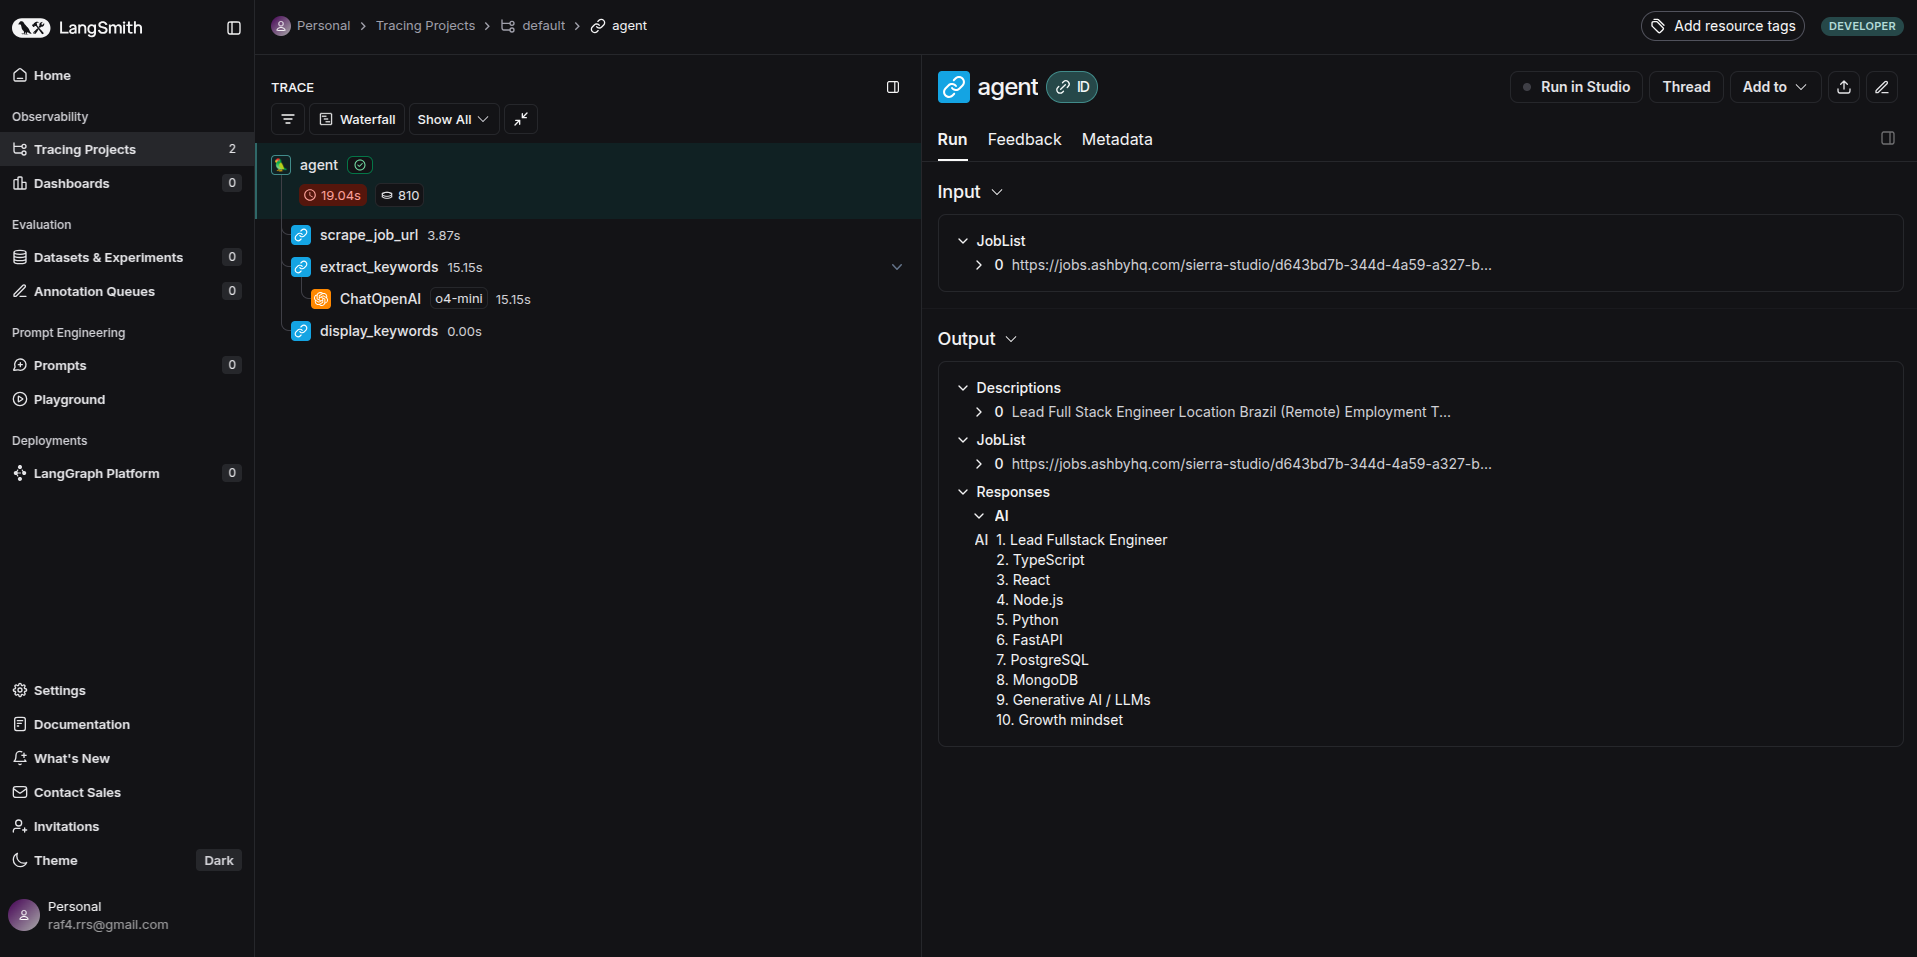
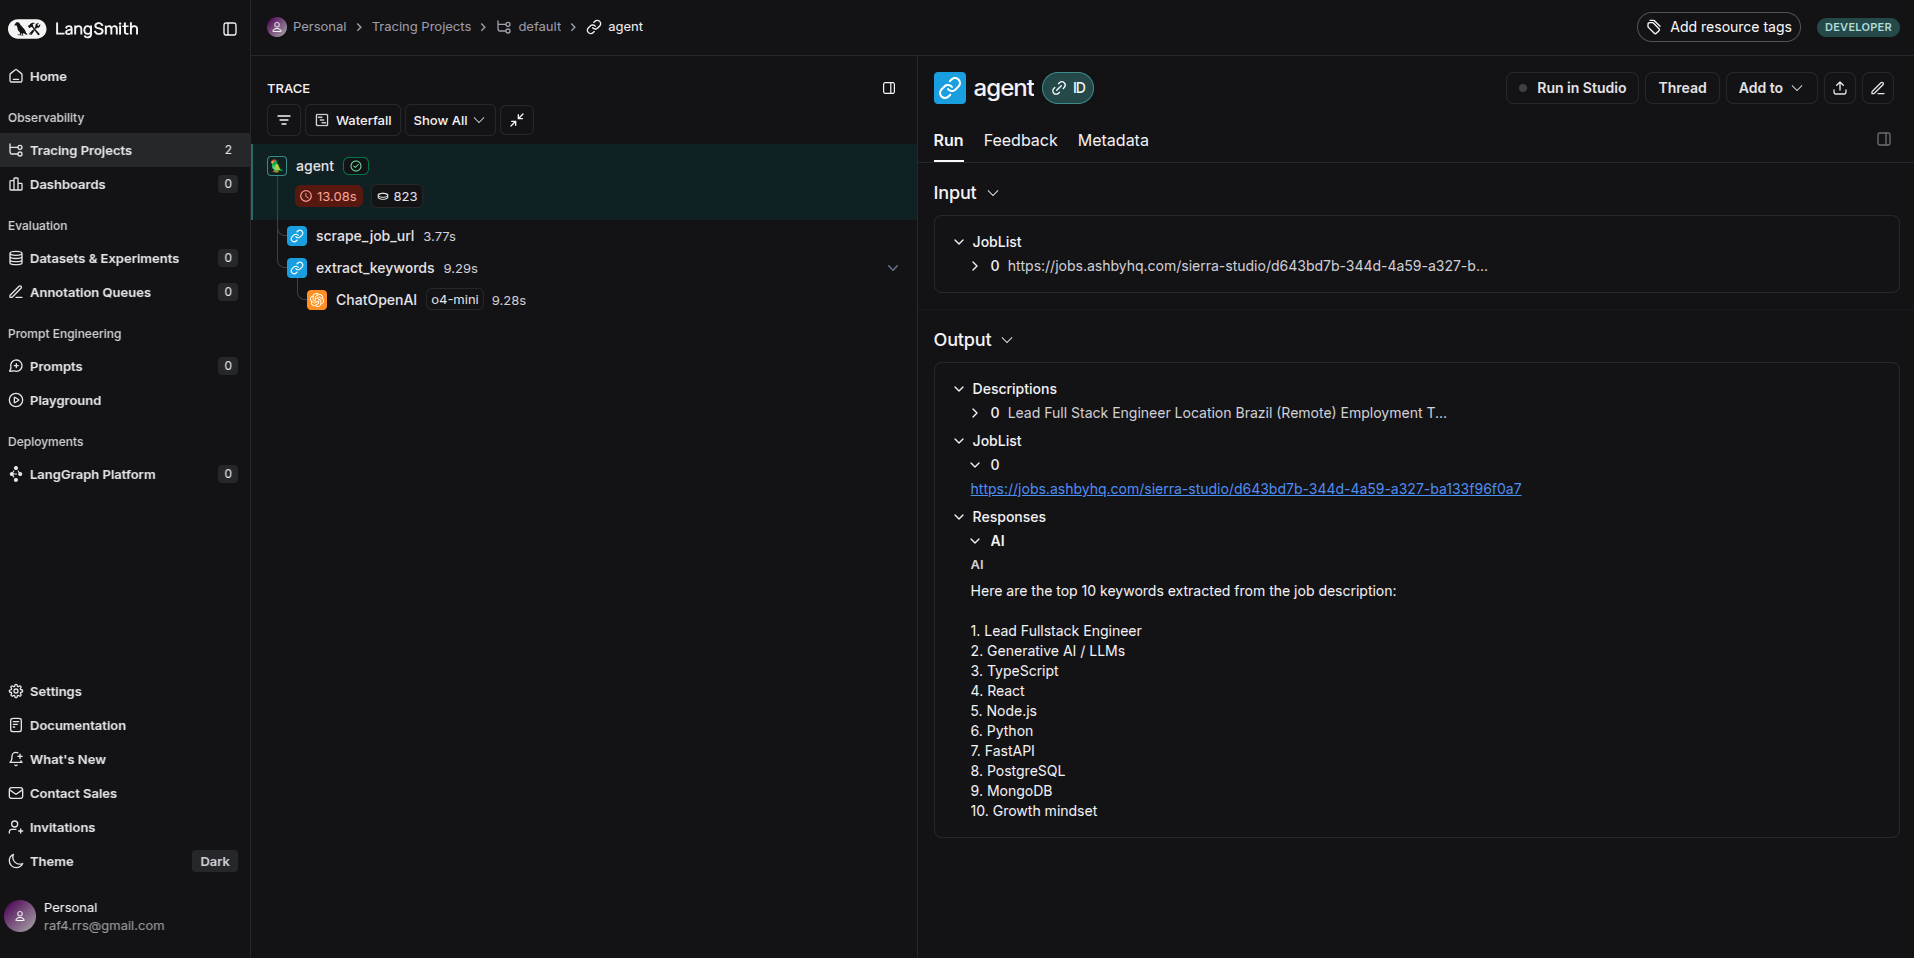
FIX: Adjust lang graph

diff --git a/agent.py b/agent.py
@@ -6,15 +6,14 @@ from langchain_openai import ChatOpenAI
 from langgraph.graph import StateGraph, START, END
 
 class JobSchema(BaseModel):
-    jobList:      List[str] = Field(
+    jobList: List[str] = Field(
         ...,
         description="List of job‐posting URLs to scrape",
     )
-    numberWords:  int        = Field(
+    numberWords: int = Field(
         default=10,
         description="How many keywords to extract per description",
     )
-    # private buffers, never treated as inputs
     descriptions: List[str] = Field(default_factory=list, exclude=True)
     responses: List[BaseMessage] = Field(default_factory=list, exclude=True)
 
@@ -68,13 +67,6 @@ def extract_keywords(state: JobSchema):
 
     return {"responses": state.responses}
 
-def emit_keywords(state: JobSchema):
-    """
-    Pull the .content field from each BaseMessage in state.responses
-    and return it under the key "keywords" as the graph’s output.
-    """
-    return {"keywords": state.responses.content}
-
 builder = StateGraph(JobSchema)
 
 builder.add_node(
@@ -85,15 +77,9 @@ builder.add_node(
     "extract_keywords", 
     extract_keywords
 )
-builder.add_node(
-    "display_keywords", 
-    emit_keywords
-)
 
-# define edges: START → scrape → llm → emit → END
 builder.add_edge(START, "scrape_job_url")
 builder.add_edge("scrape_job_url", "extract_keywords")
-builder.add_edge("extract_keywords", "display_keywords")
-builder.add_edge("display_keywords", END)
+builder.add_edge("extract_keywords", END)
 
 graph = builder.compile()
